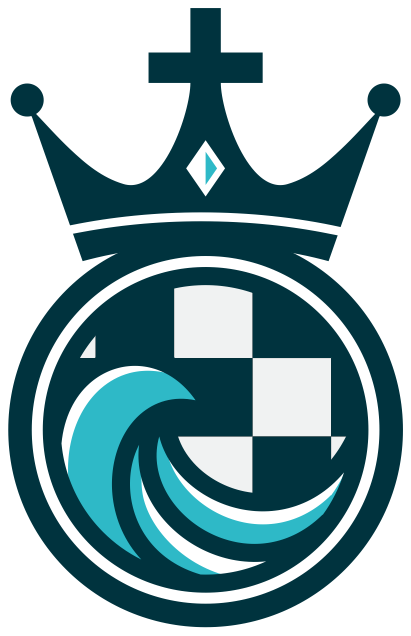
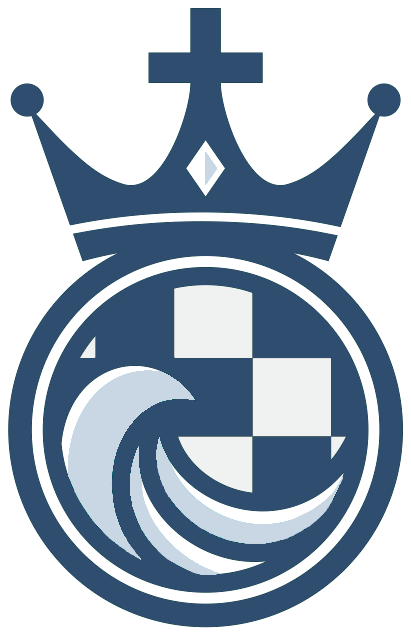
:)

diff --git a/client/config/UserInterface.java b/client/config/UserInterface.java
@@ -88,7 +88,8 @@ public class UserInterface {
         new Color(211, 199, 181),
         new Color(252, 241, 234),
         new Color(120, 226, 247),
-        new Color(246, 205, 74)
+        new Color(246, 205, 74),
+        new Color(200, 215, 227)
     };
     public static final Color[] DARKER_TILE_COLOURS = new Color[]{
         new Color(64, 64, 65),
@@ -104,7 +105,8 @@ public class UserInterface {
         new Color(95, 51, 31),
         new Color(194, 170, 134),
         new Color(38, 179, 129),
-        new Color(57, 55, 46)
+        new Color(57, 55, 46),
+        new Color(47, 78, 111)
     };
     public static Color lighterTile = LIGHTER_TILE_COLOURS[activeTheme];
     public static Color darkerTile = DARKER_TILE_COLOURS[activeTheme];

diff --git a/server/server/ClientsOnlineUpdater.java b/server/server/ClientsOnlineUpdater.java
@@ -1,5 +1,7 @@
 package server;
 
+import config.Consts;
+
 public class ClientsOnlineUpdater extends Thread {
     private ClientHandler clientHandler;
 
@@ -12,7 +14,7 @@ public class ClientsOnlineUpdater extends Thread {
         try { 
             while (clientHandler.isAlive()) {
                 clientHandler.updatePlayersOnline();
-                Thread.sleep(1000);
+                Thread.sleep(Consts.UPDATE_CLIENT_INTERVAL);
             }
         } catch (Exception e) {
             e.printStackTrace();

diff --git a/server/server/DatabaseUpdater.java b/server/server/DatabaseUpdater.java
@@ -20,7 +20,7 @@ public class DatabaseUpdater extends Thread {
     public void run() {
         try {
             while (isActive) {
-                Thread.sleep(Consts.UPDATE_INTERVAL);
+                Thread.sleep(Consts.UPDATE_DATABASE_INTERVAL);
                 fileWriter = new FileWriter(PathConsts.USERS);
                 synchronized(database) {
                     for (Map.Entry<String, User> user : database.getData().entrySet()) {

diff --git a/server/config/Consts.java b/server/config/Consts.java
@@ -4,5 +4,6 @@ public class Consts {
     public static final int PORT = 5000;
 
     public static final int NUM_SETTINGS = 4;
-    public static final int UPDATE_INTERVAL = 600000;
+    public static final int UPDATE_DATABASE_INTERVAL = 600000;
+    public static final int UPDATE_CLIENT_INTERVAL = 10000;
 }

diff --git a/client/views/pages/Settings.java b/client/views/pages/Settings.java
@@ -34,7 +34,8 @@ public class Settings extends ContentPanel implements ActionListener {
         "Nanaimo",
         "Ice Cweam",
         "Mouth Wash",
-        "Test Dummy"
+        "Test Dummy",
+        "Rado Chess"
     };
     private final String[] CHESS_PIECE_SETS = {
         "Classic",
